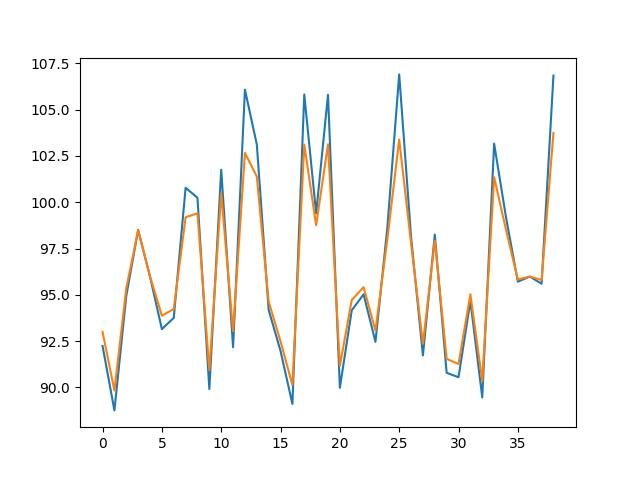
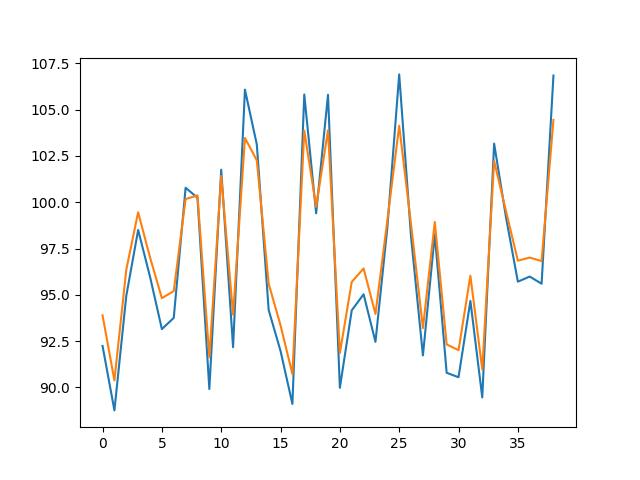
Plotly graphs added

Changed region(s): [[0.4688, 0.25, 0.875, 0.8125], [0.1562, 0.2812, 0.4688, 0.8125]]

diff --git a/Web app/Index.html b/Web app/Index.html
@@ -1,0 +1,33 @@
+<!DOCTYPE html>
+<html lang="en-US">
+  <head>
+    <meta charset="utf-8" />
+    <title>TensorFlow.js browser example</title>
+
+    <!-- Load TensorFlow.js from a script tag -->
+    <script src="https://cdn.jsdelivr.net/npm/@tensorflow/tfjs@latest/dist/tf.min.js"></script>
+  </head>
+  <body>
+    <h1>TensorFlow.js example</h1>
+    <h2>Open the console to see the results.</h2>
+    <script>
+    // Define a model for linear regression. The script tag makes `tf` available
+    // as a global variable.
+    const model = tf.sequential();
+    model.add(tf.layers.dense({units: 1, inputShape: [1]}));
+
+    model.compile({loss: 'meanSquaredError', optimizer: 'sgd'});
+
+    // Generate some synthetic data for training.
+    const xs = tf.tensor2d([1, 2, 3, 4], [4, 1]);
+    const ys = tf.tensor2d([1, 3, 5, 7], [4, 1]);
+
+    // Train the model using the data.
+    model.fit(xs, ys, {epochs: 10}).then(() => {
+      // Use the model to do inference on a data point the model hasn't seen before:
+      model.predict(tf.tensor2d([5], [1, 1])).print();
+      // Open the browser devtools to see the output
+    });
+    </script>
+  </body>
+</html>

diff --git a/Test_Flask/templates/index1.html b/Test_Flask/templates/index1.html
@@ -16,8 +16,6 @@
             <div>
                 {{ graph_html|safe }}
             </div>
-            <h1>Line Chart</h1>
-            <img src="{{url_for('static', filename='/Image/output-1.jpg')}}" alt="Line Chart">
             <p>{{ my_string }}</p>
             
     </body>

diff --git a/Test_Flask/Test_Flask.py b/Test_Flask/Test_Flask.py
@@ -46,13 +46,23 @@ def model_prediction(df):
 
 #the prediction for the model rn is now in scaled model. so you are rescaling it backwards
     predictions = scaler.inverse_transform(predictions)
-    plt.plot(Y_val)
-    plt.plot(predictions)
+    #plt.plot(Y_val)
+    #plt.plot(predictions)
 
     # Save the chart to a temporary file
-    chart_file = "Stock-Price-Prediction-Model\Test_Flask\static\Image\output-1.jpg"
-    plt.savefig(chart_file)
-    return str(predictions[-1][0]),predictions
+    #chart_file = "Stock-Price-Prediction-Model\Test_Flask\static\Image\output-1.jpg"
+    #plt.savefig(chart_file)
+    trace1 = go.Scatter(x=df.index, y=Y_val.reshape(-1), name='Actual')
+    trace2 = go.Scatter(x=df.index, y=predictions.reshape(-1), name='Predicted')
+
+    # Combine traces into data and create layout
+    data = [trace1, trace2]
+    layout = go.Layout(title='Actual vs Predicted', xaxis_title='Date', yaxis_title='Price')
+
+    # Create figure and plot
+    fig = go.Figure(data=data, layout=layout)
+    graph_html = pyo.plot(fig, output_type="div")
+    return str(predictions[-1][0]),graph_html
 
 
 
@@ -68,13 +78,9 @@ def gfg():
        stockname=request.form.get('sname')
 
        df=yk.download(tickers=stockname,period='60d',interval='30m')
-       va,ds=model_prediction(df)
-       return render_template('index1.html', my_string=va,predictions=ds)
-    data = [go.Scatter(x=[1, 2, 3], y=[4, 5, 6])]
-    layout = go.Layout(title="My Plot")
-    fig = go.Figure(data=data, layout=layout)
-    graph_html = pyo.plot(fig, output_type="div")
-    return render_template("index1.html", graph_html=graph_html)  
+       va,graph_html=model_prediction(df)
+       return render_template('index1.html', my_string=va,graph_html=graph_html)
+    return render_template("index1.html")  
 
   
 if __name__ =="__main__":  
